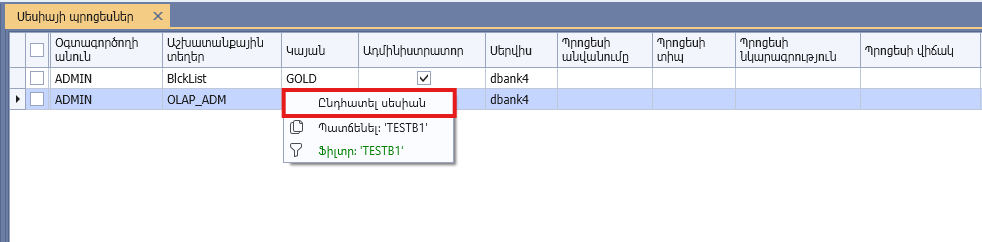
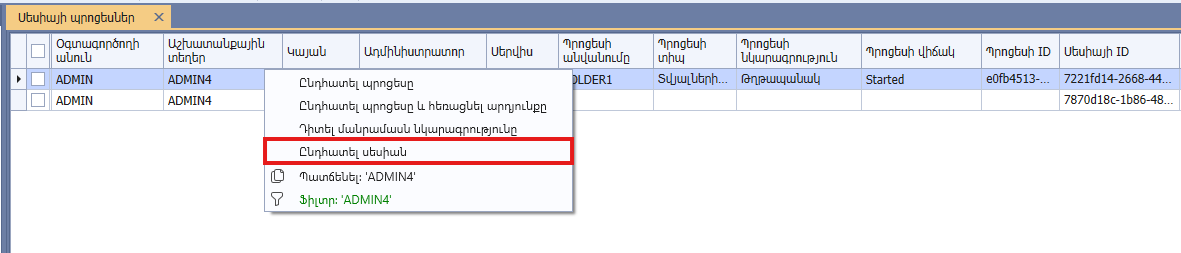
Merge ServiceProcesses descriptions, changed images

Changed region(s): [[0.0, 0.0, 1.0, 0.8678]]

diff --git a/src/ui/service_processes.md b/src/ui/service_processes.md
@@ -44,53 +44,33 @@ nav_order: 1
 
 ## Կոնտեքստային ֆունկցիաներ
 
-### Ընդհատել պրոցեսը
+### Ընդհատել պրոցես(ներ)ը
 
-Այս կոնտեքստային ֆունկցիան տալիս է հնարավորություն ընդհատել սերվիսային ասինխրոն պրոցեսը (տվյալների աղբյուրի, տվյալների մշակման հարցման (DPR), առաջադրանքի կատարում, փաստաթղթի հեռացում և գրանցում, ․․․)։ 
+«Ընդհատել պրոցեսը», «Ընդհատել պրոցեսները» կոնտեքստային ֆունկցիաները տալիս են հնարավորություն ընդհատել ընտրված սերվիսային ասինխրոն պրոցես(ներ)ը (տվյալների աղբյուրի, տվյալների մշակման հարցման (DPR), առաջադրանքի կատարում, փաստաթղթի հեռացում և գրանցում, ․․․)։ 
 
-Այն կիրառելի է «Սերվիսային ասինխրոն պրոցեսներ» դիտելու ձևի այն տողերի համար, որոնց համար նշված է պրոցեսի Id-ն (պրոցես Id չունեցող տողերը հանդիսանում են ընթացիկ սեսսիաներ)։
+Ֆունկցիաների կանչի արդյունքում կընդհատվեն այն պրոցեսները, որոնց համար նշված է պրոցեսի Id-ն (պրոցես Id չունեցող տողերը հանդիսանում են ընթացիկ սեսսիաներ)։
 
-![stop_process](images/stop_process.png)
+![stop_process](images/stop_processes.png)
 
-Ֆունկցիայի կանչի արդյունքում պրոցեսը գործարկող օգտագործողը ստանում է սխալի հաղորդագրություն, որտեղ նշվում է X օգտագործողի կողմից ընդհատման փաստը։
-
-![stop_process_error_message](images/stop_process_error_message.png)
-
-### Ընդհատել պրոցեսը և հեռացնել արդյունքը
-
-Այս կոնտեքստային ֆունկցիան տալիս է հնարավորություն ընդհատել սերվիսային ասինխրոն պրոցեսը (տվյալների աղբյուրի, տվյալների մշակման հարցման (DPR), առաջադրանքի կատարում, փաստաթղթի հեռացում և գրանցում, ․․․) և հեռացնել պրոցեսի քեշը սերվիսից։
-
-Այն կիրառելի է «Սերվիսային ասինխրոն պրոցեսներ» դիտելու ձևի այն տողերի համար, որոնց համար նշված է պրոցեսի Id-ն (պրոցես Id չունեցող տողերը հանդիսանում են ընթացիկ սեսսիաներ)։
-
-Ֆունկցիայի կանչի արդյունքում պրոցեսը գործարկող օգտագործողը ստանում է սխալի հաղորդագրություն, որտեղ նշվում է X օգտագործողի կողմից ընդհատման փաստը։
+Պրոցեսը գործարկող օգտագործողը ֆունկցիայի կանչի արդյունքում ստանում է սխալի հաղորդագրություն, որտեղ նշվում է X օգտագործողի կողմից ընդհատման փաստը։
 
 ![stop_process_error_message](images/stop_process_error_message.png)
 
-### Ընդհատել պրոցեսները
+### Ընդհատել պրոցես(ներ)ը և հեռացնել արդյունք(ներ)ը
 
-Այս կոնտեքստային ֆունկցիան տալիս է հնարավորություն ընդհատել ընտրված տողերի սերվիսային ասինխրոն պրոցեսները (տվյալների աղբյուրի, տվյալների մշակման հարցման (DPR), առաջադրանքի կատարում, փաստաթղթի հեռացում և գրանցում, ․․․)։ 
+«Ընդհատել պրոցեսը և հեռացնել արդյունքը», «Ընդհատել պրոցեսները և հեռացնել արդյունքները» կոնտեքստային ֆունկցիաները տալիս են հնարավորություն ընդհատել սերվիսային ասինխրոն պրոցես(ներ)ը (տվյալների աղբյուրի, տվյալների մշակման հարցման (DPR), առաջադրանքի կատարում, փաստաթղթի հեռացում և գրանցում, ․․․) և հեռացնել պրոցես(ներ)ի քեշը սերվիսից։
 
-Ֆունկցիայի կանչի արդյունքում կընդհատվեն այն պրոցեսները, որոնց համար նշված է պրոցեսի Id-ն (պրոցես Id չունեցող տողերը հանդիսանում են ընթացիկ սեսսիաներ)։
-
-Ֆունկցիայի կանչի արդյունքում պրոցեսը գործարկող օգտագործողը ստանում է սխալի հաղորդագրություն, որտեղ նշվում է X օգտագործողի կողմից ընդհատման փաստը։
-
-![stop_process_error_message](images/stop_process_error_message.png)
-
-### Ընդհատել պրոցեսները և հեռացնել արդյունքները
-
-Այս կոնտեքստային ֆունկցիան տալիս է հնարավորություն ընդհատել ընտրված տողերի սերվիսային ասինխրոն պրոցեսները (տվյալների աղբյուրի, տվյալների մշակման հարցման (DPR), առաջադրանքի կատարում, փաստաթղթի հեռացում և գրանցում, ․․․) և հեռացնել պրոցեսների քեշը սերվիսից։
-
-Ֆունկցիայի կանչի արդյունքում կընդհատվեն այն պրոցեսները, որոնց համար նշված է պրոցեսի Id-ն (պրոցես Id չունեցող տողերը հանդիսանում են ընթացիկ սեսսիաներ)։
+Կոնտեքստային ֆունկցիաները կիրառելի են «Սերվիսային ասինխրոն պրոցեսներ» դիտելու ձևի այն տողերի համար, որոնց համար նշված է պրոցեսի Id-ն (պրոցես Id չունեցող տողերը հանդիսանում են ընթացիկ սեսսիաներ)։
 
 ![stop_processes_and_remove_results](images/stop_processes_and_remove_results.png)
 
-Ֆունկցիայի կանչի արդյունքում պրոցեսը գործարկող օգտագործողը ստանում է սխալի հաղորդագրություն, որտեղ նշվում է X օգտագործողի կողմից ընդհատման փաստը։
+Պրոցեսը գործարկող օգտագործողը ֆունկցիայի կանչի արդյունքում ստանում է սխալի հաղորդագրություն, որտեղ նշվում է X օգտագործողի կողմից ընդհատման փաստը։
 
 ![stop_process_error_message](images/stop_process_error_message.png)
 
 ### Ընդհատել սեսիան
 
-Այս կոնտեքստային ֆունկցիան տալիս է հնարավորություն ընդհատել օգտագործողի սեսիան։ Սեսիայի ընդհատման արդյունքում հեռացվում են սեսսիայի ընթացքում ստեղծված ժամանակավոր ֆայլերը, ընդհատվում ընթացիկ բոլոր պրոցեսսները։
+Այս կոնտեքստային ֆունկցիան տալիս է հնարավորություն ընդհատել օգտագործողի սեսիան։ Սեսիայի ընդհատման արդյունքում հեռացվում են սեսսիայի ընթացքում ստեղծված ժամանակավոր ֆայլերը, ընդհատվում ընթացիկ բոլոր պրոցեսսները (տվյալների աղբյուրի, տվյալների մշակման հարցման (DPR), առաջադրանքի կատարում, փաստաթղթի հեռացում և գրանցում, ․․․)։
 
 ![stop_session](images/stop_session.png)
 
